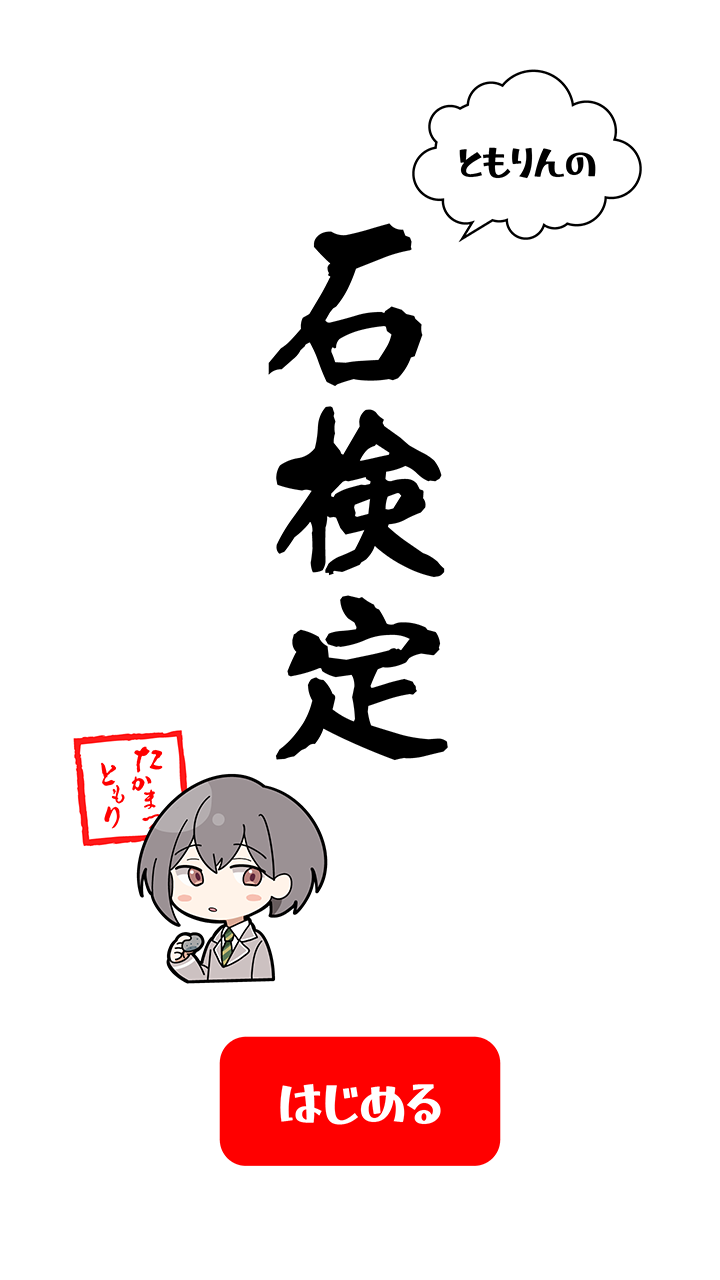
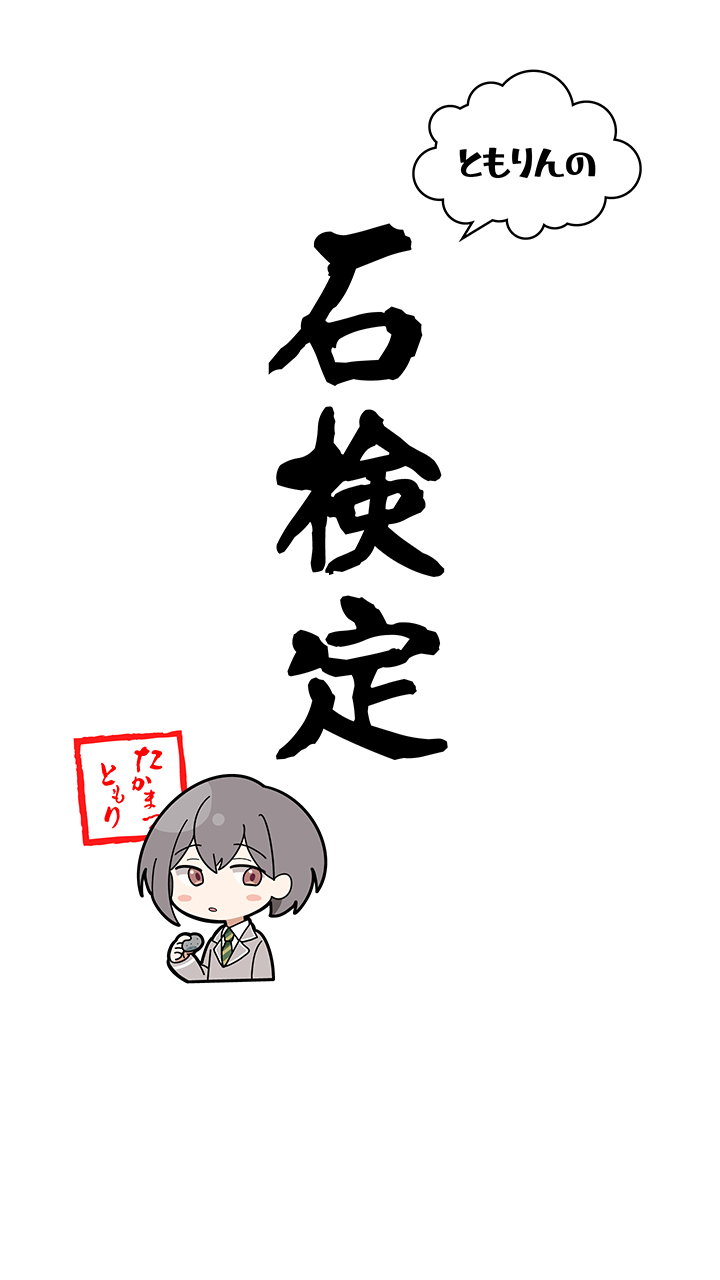
add start button and preload assets in MyGoScene

Changed region(s): [[0.3056, 0.8125, 0.7028, 0.9375]]

diff --git a/src/scenes/MyGoScene.js b/src/scenes/MyGoScene.js
@@ -35,6 +35,7 @@ export class MyGoScene extends BaseLevelScene {
     preload() {
         super.preload();
         this.load.image('title', 'assets/mygo/title.png');
+        this.load.image('start_button', 'assets/mygo/start_button.png');
         this.load.image('showing_bg', 'assets/mygo/showing_bg.png');
         this.load.image('hand_grab', 'assets/mygo/hand_grab.png');
         this.load.image('hand_release', 'assets/mygo/hand_release.png');
@@ -72,13 +73,25 @@ export class MyGoScene extends BaseLevelScene {
 
     showTitle() {
         const title = this.add.image(this.cameras.main.centerX, this.cameras.main.centerY, 'title').setDepth(-1);
-        // create tappable area for for starting game
-        const titleArea = this.add.rectangle(220+140, 1040+65, 280, 130, 0x000000, 0);
-        titleArea.setInteractive();
-        titleArea.on('pointerdown', () => {
-            title.destroy();
-            titleArea.destroy();
-
+        // create start button for starting game
+        // when press down start button, make button darker
+        // when press down and hold start button but move cursor out of button, make button normal
+        // when release start button, play taiko_dodo se, make button normal and start game
+        const startButton = this.add.image(360, 1105, 'start_button');
+        startButton.setInteractive();
+        startButton.on('pointerover', () => {
+            startButton.setScale(1.2);
+        });
+        startButton.on('pointerout', () => {
+            startButton.setScale(1.0);
+        });
+        startButton.on('pointerdown', () => {
+            startButton.setTint(0xaaaaaa);
+        });
+        startButton.on('pointerout', () => {
+            startButton.clearTint();
+        });
+        startButton.on('pointerup', () => {
             this.sound.play('taiko_dodo', { volume: 1.0 });
 
             // black out effect for 0.5, black in effect for 0.5 second and start game
@@ -89,6 +102,8 @@ export class MyGoScene extends BaseLevelScene {
                 alpha: { from: 0, to: 1 },
                 duration: 1000,
                 onComplete: () => {
+                    title.destroy();
+                    startButton.destroy();
                     this.addBg();
                     this.addRoundText();
 
